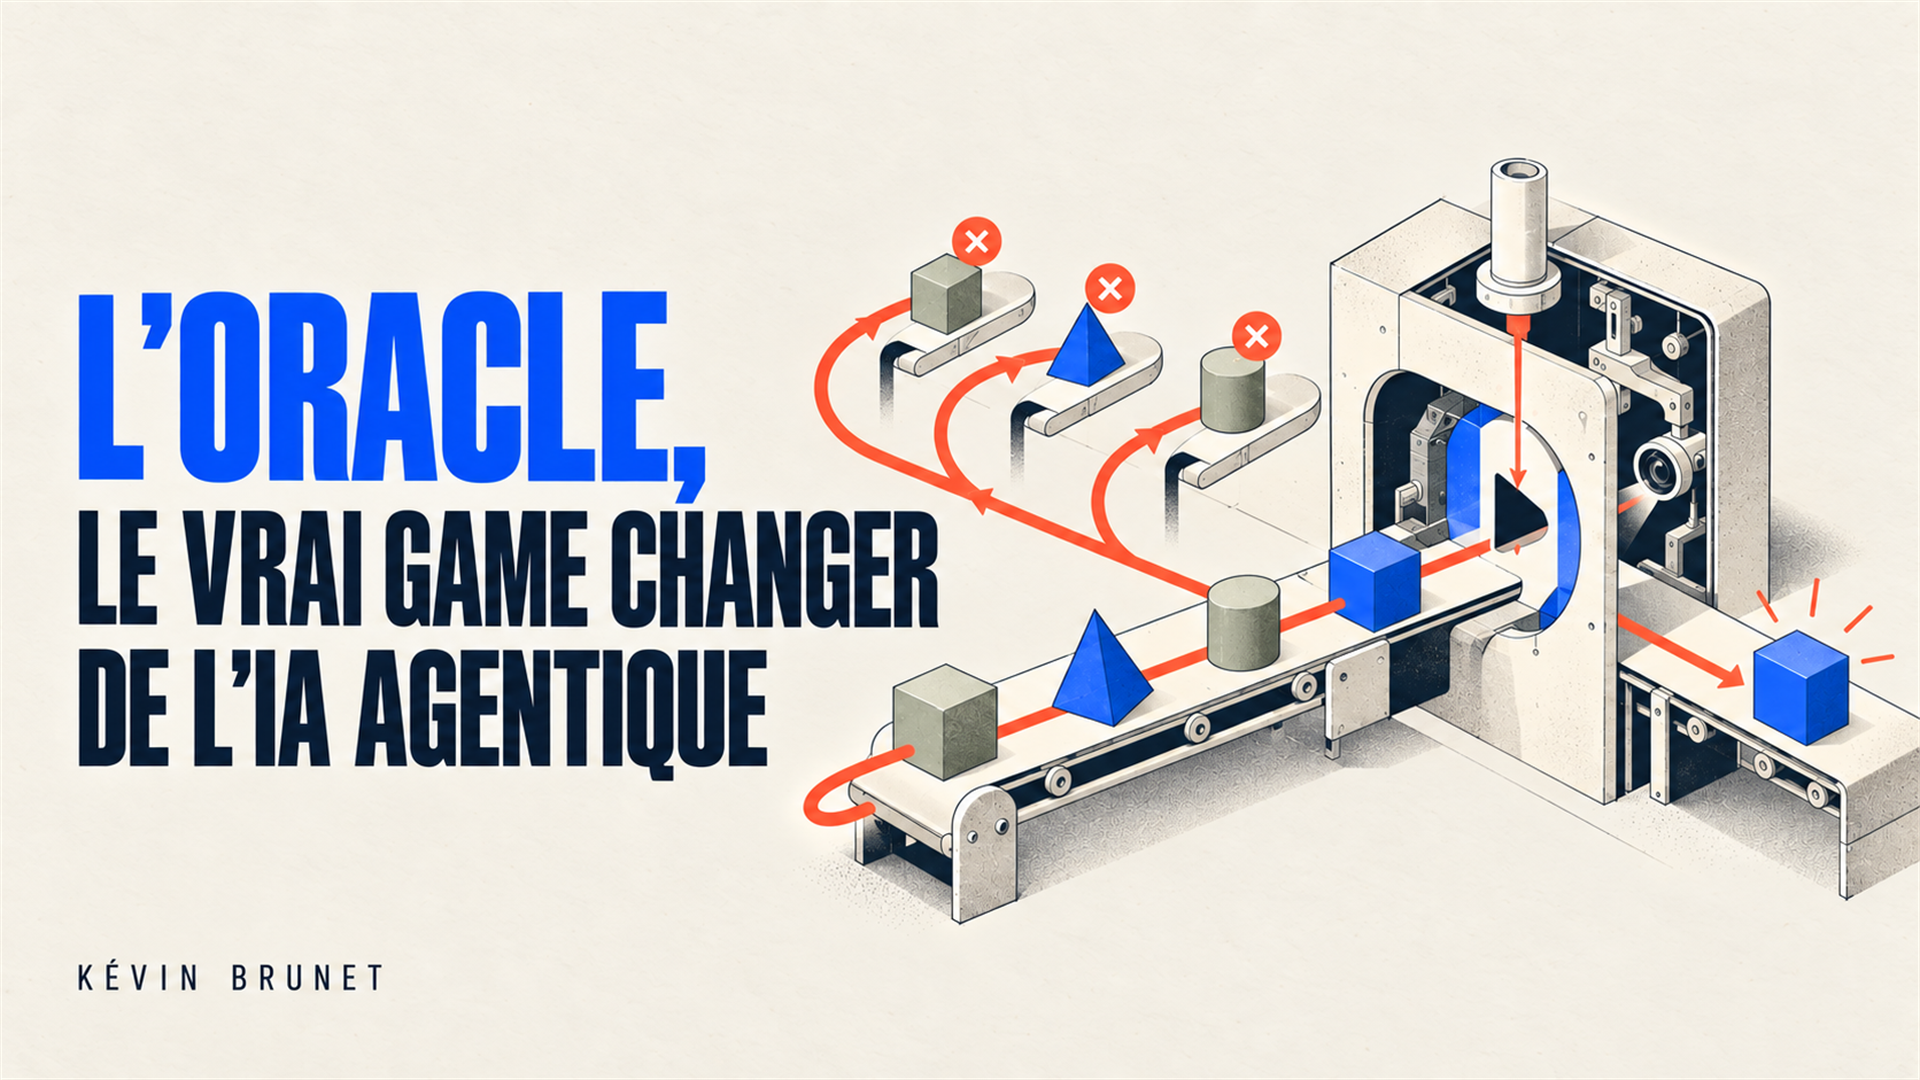
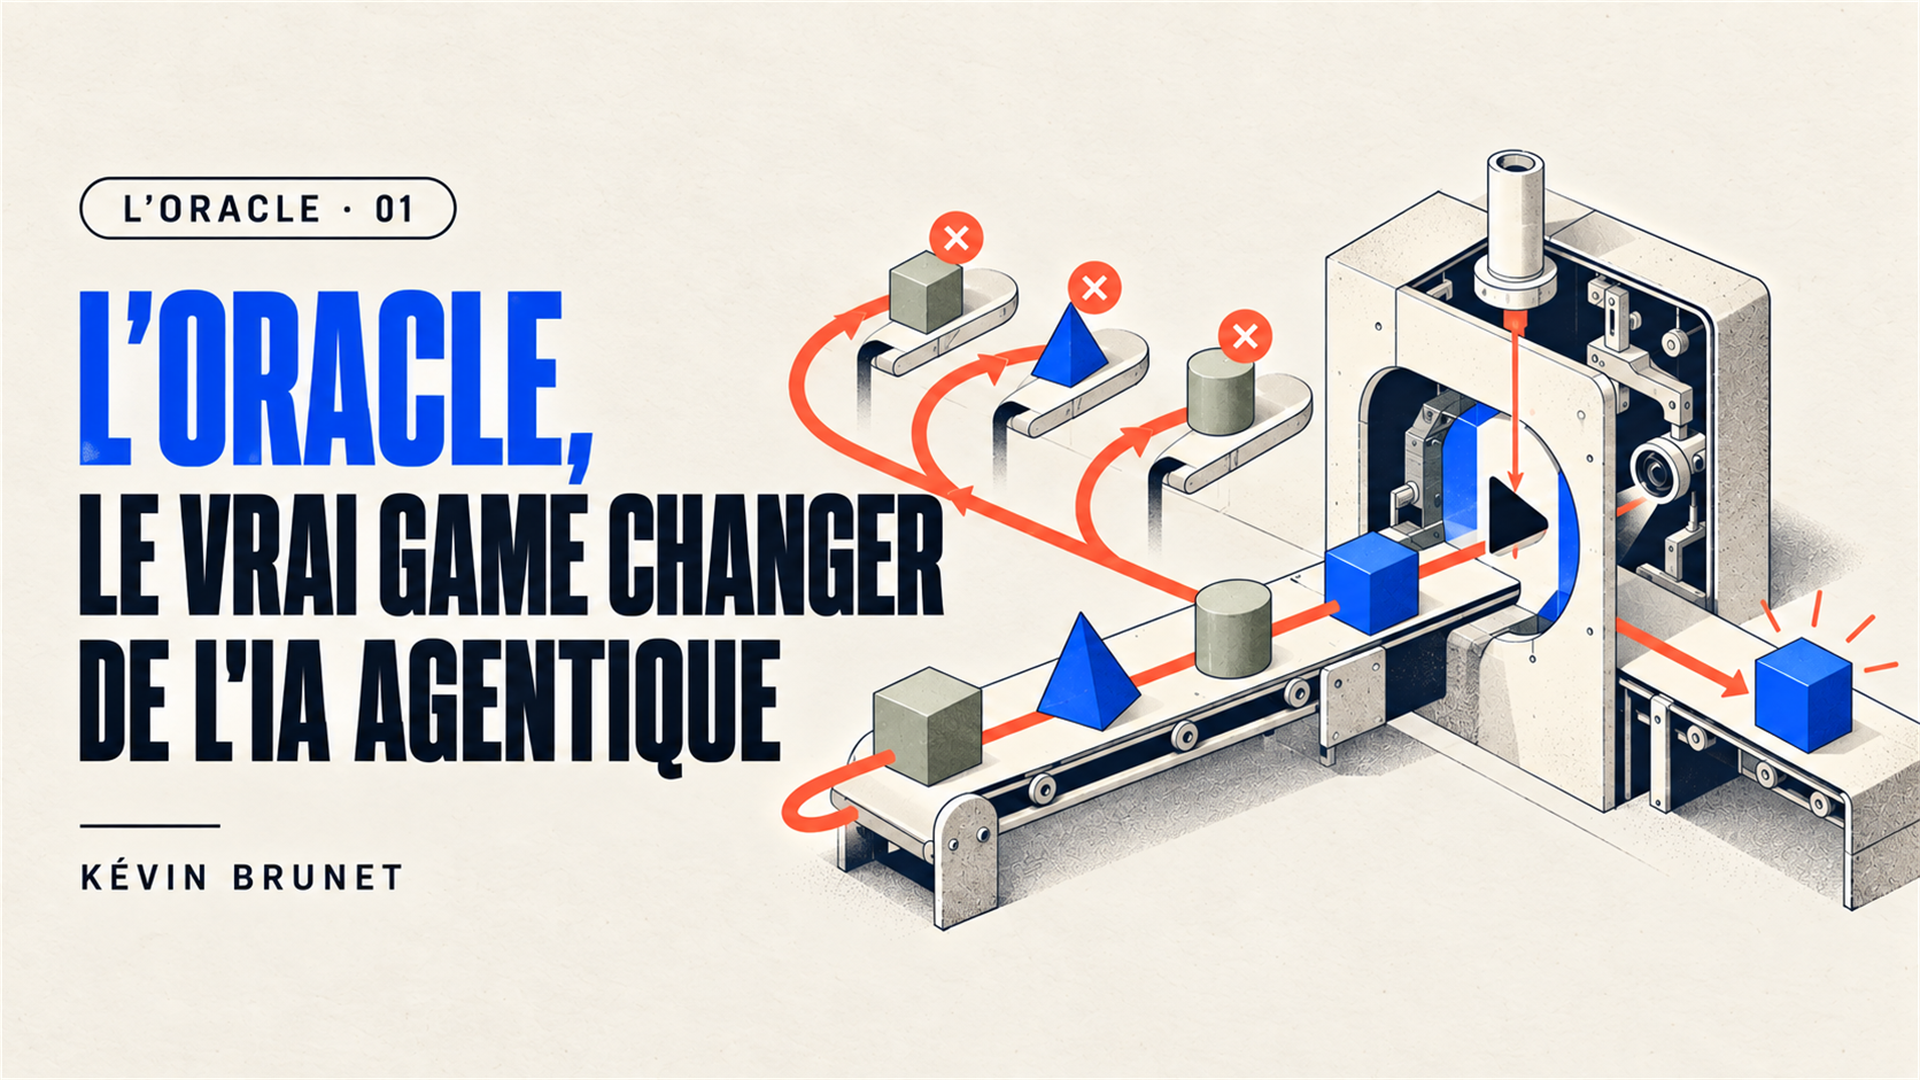
Transforme l'article sur l'oracle en série

Changed region(s): [[0.0312, 0.1222, 1.0, 0.8556], [0.0312, 0.7639, 0.2188, 0.825], [0.0312, 0.8861, 0.1875, 0.9167]]

diff --git a/content/articles/meilleur-modele-meilleur-complement.md b/content/articles/meilleur-modele-meilleur-complement.md
@@ -1,0 +1,191 @@
+---
+title: "Le modèle le plus cher devrait peut-être passer en dernier"
+seo_title: "Agents IA : pourquoi le modèle le plus cher peut passer en dernier"
+slug: "meilleur-modele-meilleur-complement"
+date: 2026-10-27
+description: "Après l'échec d'un premier modèle, le meilleur complément est celui dont les angles morts sont différents, pas nécessairement celui qui domine le classement."
+categories: ["Intelligence artificielle", "Architecture logicielle", "Ingénierie logicielle"]
+series: ["l-oracle"]
+series_order: 2
+collection: "SYSTÈMES"
+cover: "/images/articles/meilleur-complement.fr.png"
+draft: false
+---
+
+{{< callout variant="scene" label="Onze angles morts" >}}
+Après quatre tentatives, GPT-5.6 Luna résout 102 des 113 tâches du benchmark DeepSWE.
+
+Il lui reste 11 angles morts.
+
+On pourrait alors escalader vers le modèle le plus puissant du classement. Pourtant, GPT-6 Astra ne récupère que 5 de ces 11 tâches.
+
+Un modèle beaucoup moins cher fait nettement mieux : **GLM-5.3 Flash en récupère 10**.
+
+**Le meilleur modèle n'est donc pas nécessairement le meilleur complément. Pour construire un système agentique fiable, il faut regarder non seulement le score de chaque modèle, mais aussi la manière dont leurs erreurs se recouvrent.**
+{{< /callout >}}
+
+## Un classement cache les profils d'erreurs
+
+Un leaderboard range les modèles sur un axe : leur performance moyenne.
+
+Cette mesure répond à une question utile : si je ne peux lancer qu'une seule exécution, quel modèle possède la meilleure probabilité de réussir ?
+
+Elle ne répond pas à une autre question, pourtant essentielle pour une architecture agentique : lorsqu'un premier modèle échoue, lequel a le plus de chances de réussir précisément sur ses échecs ?
+
+Les données détaillées de [DeepSWE 1.1](https://deepswe.datacurve.ai/) permettent de l'observer. Chaque configuration a été exécutée jusqu'à quatre fois sur 113 tâches de génie logiciel. Luna `[max]` en résout au moins une fois 102. Onze tâches résistent à ses quatre exécutions.
+
+Parmi les 70 configurations présentes dans les données, GLM-5.3 Flash `[max]` est celle qui complète le mieux Luna : il réussit au moins une fois 10 de ces 11 tâches.
+
+Il faut bien lire ce résultat comme une escalade. GLM Flash ne reprend pas les 113 tâches depuis le début. Il reçoit seulement les 11 tâches que Luna n'a résolues lors d'aucune de ses quatre exécutions. On regarde ensuite à quelle tentative de GLM Flash chacune de ces tâches est réussie pour la première fois.
+
+| Étape | Nouvelles tâches récupérées à cet essai | Échecs de Luna récupérés au total | Tâches encore non résolues | Couverture combinée Luna + GLM Flash |
+|---|---:|---:|---:|---:|
+| Avant GLM Flash | — | 0 sur 11 | 11 | 102 sur 113, soit 90,3 % |
+| **Essai 1** | **5** | **5 sur 11** | 6 | 107 sur 113, soit 94,7 % |
+| **Essai 2** | **2** | **7 sur 11** | 4 | 109 sur 113, soit 96,5 % |
+| **Essai 3** | **1** | **8 sur 11** | 3 | 110 sur 113, soit 97,3 % |
+| **Essai 4** | **2** | **10 sur 11** | **1** | **112 sur 113, soit 99,1 %** |
+
+Dès la première tentative de GLM Flash, 5 des 11 blocages persistants de Luna disparaissent. Une deuxième tentative en récupère 2 de plus. La troisième en ajoute 1, puis la quatrième les 2 derniers succès observés. Il ne reste alors qu'une seule tâche non résolue par ce couple de modèles.
+
+Ce tableau ne donne donc pas quatre scores indépendants. Il montre la progression cumulative permise par l'oracle : après chaque échec, une nouvelle tentative n'est lancée que pour les tâches qui résistent encore.
+
+| Modèle ajouté après Luna | Échecs de Luna récupérés | Couverture combinée |
+|---|---:|---:|
+| **GLM-5.3 Flash [max]** | **10 sur 11** | **112 sur 113, soit 99,1 %** |
+| Claude Opus 5 [medium] | 9 sur 11 | 111 sur 113, soit 98,2 % |
+| Claude Sonnet 5 [max] | 8 sur 11 | 110 sur 113, soit 97,3 % |
+| GPT-6 Astra [xhigh] | 5 sur 11 | 107 sur 113, soit 94,7 % |
+
+{{< thesis >}}
+Ces chiffres ne disent pas que GLM-5.3 Flash est meilleur qu'Astra dans l'absolu. Ils montrent que ses forces tombent beaucoup plus souvent dans les angles morts de Luna.
+
+**C'est une autre définition de la diversité.**
+{{< /thesis >}}
+
+## La diversité ne se compte pas en modèles
+
+Deux modèles peuvent produire des réponses différentes tout en échouant sur les mêmes problèmes. À l'inverse, un modèle moins performant en moyenne peut apporter énormément s'il réussit là où le premier bloque.
+
+Compter les modèles ne suffit donc pas. Il faut mesurer la complémentarité de leurs erreurs.
+
+Cette idée était au cœur de ma série [« Aucun harness n'est parfait »](/series/aucun-harnais-n-est-parfait/). Dans [« Pourquoi ajouter des agents ne crée pas forcément de diversité »](/articles/plusieurs-agents-ne-font-pas-plusieurs-points-de-vue/), je défendais que la diversité devait devenir une propriété empirique du système, observée à travers les désaccords et les erreurs utiles.
+
+DeepSWE en fournit ici une illustration particulièrement nette. Astra obtient un meilleur score que Luna sur une exécution moyenne. Pourtant, lorsqu'on lui présente uniquement les échecs persistants de Luna, il apporte moins de couverture supplémentaire que GLM-5.3 Flash.
+
+La bonne question n'est donc plus : quel est le meilleur modèle ?
+
+{{< pullquote >}}
+Quel modèle réduit le mieux le risque qui reste après le passage du précédent ?
+{{< /pullquote >}}
+
+## L'oracle transforme la diversité en routage
+
+Cette complémentarité ne devient exploitable que si le système sait reconnaître un échec.
+
+Sans oracle, il faudrait lancer plusieurs modèles puis demander à une personne de déterminer quelle réponse est correcte. Le coût de supervision augmenterait avec le nombre de propositions.
+
+Avec des tests capables d'accepter ou de rejeter automatiquement le résultat, le harness peut s'arrêter au premier succès et n'escalader que les tâches qui résistent.
+
+Le système n'a donc pas besoin de payer systématiquement quatre nouvelles tentatives. Comme le montre la progression précédente, l'oracle arrête GLM Flash dès qu'une tâche est validée et réserve les essais suivants aux seuls cas encore en échec.
+
+```text
+Luna, jusqu'à quatre tentatives
+        ↓ échec vérifié
+GLM-5.3 Flash, jusqu'à quatre tentatives
+        ↓ échec vérifié
+Dernier niveau de secours
+```
+
+L'architecture n'oppose plus un modèle économique à un modèle premium. Elle compose plusieurs profils d'erreurs et réserve chaque étage aux cas que le précédent n'a pas résolus.
+
+## Le modèle le moins cher peut passer en premier
+
+Une fois cette logique admise, une autre question apparaît : dans quel ordre faut-il appeler les modèles ?
+
+Luna possède la meilleure couverture individuelle des deux, mais GLM-5.3 Flash coûte moins cher. Il peut donc être économiquement préférable de commencer par GLM Flash, puis d'envoyer uniquement ses échecs à Luna.
+
+À partir des rollouts publiés par DeepSWE, avec arrêt au premier succès, la chaîne rétrospective suivante donne :
+
+| Étape | Tâches reçues | Tâches résolues à cette étape | Tentatives exécutées | Coût observé |
+|---|---:|---:|---:|---:|
+| GLM-5.3 Flash [max] | 113 | 96 | 206 | 47,70 $ |
+| Luna [max] sur les échecs | 17 | 16 | 30 | 20,15 $ |
+| GLM-5.2 [max] sur le dernier cas | 1 | 1 | 1 | 6,02 $ |
+| **Total rétrospectif** | **113** | **113** | **237** | **73,87 $** |
+
+Cela représente environ 0,65 dollar par tâche soumise. La valeur de la chaîne ne vient pas d'un nombre réduit d'appels : elle effectue en moyenne 2,10 tentatives par tâche.
+
+{{< callout variant="key" label="Le coût change d'étage" >}}
+La valeur vient du fait que **236 des 237 appels sont confiés aux deux modèles économiques**.
+{{< /callout >}}
+
+L'ordre inverse, Luna puis GLM Flash, consomme moins de tentatives mais coûte 123,05 dollars. Commencer par GLM Flash économise ainsi environ 40 %, au prix de 26 appels supplémentaires et d'une latence potentiellement supérieure.
+
+Le meilleur ordre dépend donc de la boussole choisie : coût, latence, consommation de calcul ou niveau de risque accepté.
+
+## Le 113 sur 113 dont il faut se méfier
+
+La chaîne GLM Flash → Luna → GLM-5.2 couvre les 113 tâches du benchmark dans les données observées.
+
+Ce résultat est spectaculaire. Il ne constitue pas une promesse de réussite parfaite.
+
+Les modèles, leur configuration et leur ordre ont été choisis après avoir examiné leurs résultats sur ces mêmes 113 tâches. La chaîne bénéficie donc d'une optimisation *a posteriori*. Elle peut avoir appris les particularités du benchmark plutôt qu'une stratégie qui se généralisera.
+
+Le résultat défendable est double :
+
+- l'union observée de Luna et GLM-5.3 Flash atteint 99,1 % ;
+- leurs profils d'erreurs sont suffisamment différents pour qu'un routage avec oracle mérite d'être testé prospectivement.
+
+Pour estimer la performance réelle, il faudrait choisir la politique sur un premier ensemble de tâches, puis la rejouer sans modification sur un échantillon inédit provenant du trafic visé. On mesurerait alors sa couverture, son coût, sa latence, ses faux positifs et ses faux négatifs.
+
+Cette précaution n'est pas un détail statistique. Une architecture agentique est elle-même une hypothèse qu'il faut soumettre à un oracle extérieur.
+
+## Le benchmark le plus utile peut venir de votre production
+
+DeepSWE constitue ici un exemple public. Il ne représente évidemment pas les tâches, les contraintes et les risques propres à chaque organisation.
+
+Mais un système agentique en production génère précisément la matière nécessaire pour construire un benchmark interne : demandes réelles, contexte disponible, résultats produits, verdicts de l'oracle, corrections humaines, coûts, latence et motifs d'escalade.
+
+En collectant ces scénarios, puis en les anonymisant et en les rendant rejouables, une équipe peut progressivement constituer un jeu de qualification représentatif de son utilisation. Les cas fréquents y conservent leur poids réel. Les incidents, les cas limites et les tâches à fort impact peuvent y être surreprésentés volontairement pour refléter le risque qu'ils portent.
+
+Il devient alors possible de reproduire la même analyse que sur DeepSWE :
+
+- exécuter plusieurs modèles et configurations sur les mêmes scénarios ;
+- observer non seulement leur score moyen, mais aussi leurs angles morts respectifs ;
+- mesurer quels modèles récupèrent réellement les échecs des autres ;
+- simuler plusieurs ordres de routage avec arrêt au premier succès ;
+- comparer la couverture obtenue au coût, à la latence et au risque résiduel.
+
+L'optimisation ne porte plus sur « le meilleur modèle du marché ». Elle porte sur **la meilleure combinaison de modèles pour une utilisation précise**.
+
+Ce benchmark doit rester vivant. Les nouveaux scénarios, les reprises humaines et les incidents enrichissent continuellement la carte des erreurs. Une partie des données peut servir à choisir la stratégie ; une autre doit rester à l'écart pour vérifier qu'elle fonctionne encore sur des cas qu'elle n'a pas utilisés pour s'optimiser.
+
+Le trafic de production ne fournit donc pas seulement des tâches à traiter. Bien instrumenté, il fournit aussi le banc d'essai qui permet d'améliorer le système à partir de sa propre réalité.
+
+## Après le choix du modèle, le choix du portefeuille
+
+DeepSWE n'est donc pas une recette universelle. Il montre une méthode que chaque organisation peut appliquer à ses propres scénarios.
+
+Nous comparons encore souvent les modèles comme s'il fallait élire un vainqueur unique.
+
+Une architecture agentique pose un problème différent. Elle peut essayer, vérifier, recommencer et changer de stratégie. Sa performance dépend alors autant de l'ordre des modèles, de la complémentarité de leurs erreurs et de la qualité de l'oracle que du score individuel de chacun.
+
+Le premier modèle doit résoudre la majorité des tâches à faible coût. Le suivant doit surtout voir ce que le premier ne voit pas. Le modèle premium ou l'humain n'intervient que sur le résidu réellement difficile.
+
+On ne cherche plus seulement le meilleur modèle. On construit un portefeuille de capacités dont les risques sont imparfaitement corrélés.
+
+La prochaine frontière ne sera peut-être pas gagnée par le modèle placé en tête d'un classement public. Elle pourrait l'être par le système qui saura apprendre de ses scénarios réels, mesurer ses erreurs, acheter la bonne diversité et router chaque échec vers le complément le plus utile.
+
+{{< closing-question label="À retenir" >}}
+Un modèle économique couvre 102 tâches. Un second modèle Flash récupère 10 de ses 11 angles morts. Grâce à l'oracle, leur couverture combinée atteint 99,1 %.
+{{< /closing-question >}}
+
+---
+
+## Sources
+
+- DeepSWE, [classement v1.1, méthodologie et coûts](https://deepswe.datacurve.ai/), 113 tâches issues de 91 dépôts open source et couvrant cinq langages, mise à jour du 22 septembre 2026.
+- DeepSWE, [données détaillées des tâches et des rollouts](https://deepswe.datacurve.ai/data/v1.1), calculs de couverture, de complémentarité et de coût avec arrêt au premier succès.
+- Kévin Brunet, [« Pourquoi ajouter des agents ne crée pas forcément de diversité »](/articles/plusieurs-agents-ne-font-pas-plusieurs-points-de-vue/), diversité mesurée par les désaccords et les erreurs utiles.
+- Kévin Brunet, [« Décorréler à l'aveugle »](/articles/decorreler-a-l-aveugle/), routage des désaccords et adaptation du coût de validation à l'information obtenue.

diff --git a/content/articles/oracle-agentique.md b/content/articles/oracle-agentique.md
@@ -5,6 +5,8 @@ slug: "oracle-game-changer-ia-agentique"
 date: 2026-10-27
 description: "Avec un oracle fiable, plusieurs essais d'un modèle économique peuvent résoudre davantage de tâches qu'un seul essai d'un modèle premium."
 categories: ["Intelligence artificielle", "Architecture logicielle", "Ingénierie logicielle"]
+series: ["l-oracle"]
+series_order: 1
 collection: "SYSTÈMES"
 cover: "/images/articles/oracle-agentique.fr.png"
 draft: false
@@ -145,8 +147,14 @@ La prochaine étape de l'IA agentique ne consistera pas uniquement à produire d
 
 Après la course aux modèles viendra probablement la course aux oracles.
 
-{{< closing-question label="À retenir" >}}
 Ceux qui sauront vérifier automatiquement le travail des agents pourront multiplier les expériences, utiliser des modèles moins coûteux et réserver l'intelligence premium aux véritables cas difficiles.
+
+Une limite subsiste pourtant. Après quatre exécutions, Luna laisse encore 11 tâches sans solution. Réessayer permet donc d'aller beaucoup plus loin, mais pas de supprimer les angles morts d'un modèle.
+
+{{< closing-question label="Dans le prochain article" >}}
+La question suivante n'est plus : combien de fois faut-il réessayer ? C'est : **quel autre modèle voit ce que Luna ne voit pas ?**
+
+Les données de DeepSWE réservent ici une seconde surprise. Le meilleur complément de Luna n'est ni le modèle le mieux classé ni le plus cher.
 {{< /closing-question >}}
 
 ---

diff --git a/content/series/l-oracle/_index.md b/content/series/l-oracle/_index.md
@@ -1,0 +1,10 @@
+---
+title: "L'oracle"
+seo_title: "Oracles et routage des modèles pour les agents IA"
+description: "Deux articles pour comprendre comment la vérification, les nouvelles tentatives et la complémentarité des modèles changent l'architecture des agents IA."
+weight: 5
+---
+
+Cette série montre comment un oracle transforme la génération en boucle de recherche, puis permet de router les échecs vers les modèles dont les angles morts sont réellement complémentaires.
+
+Le premier article étudie la valeur des tentatives vérifiées. Le second montre pourquoi le meilleur modèle d'un classement n'est pas forcément celui qui complète le mieux le précédent.
